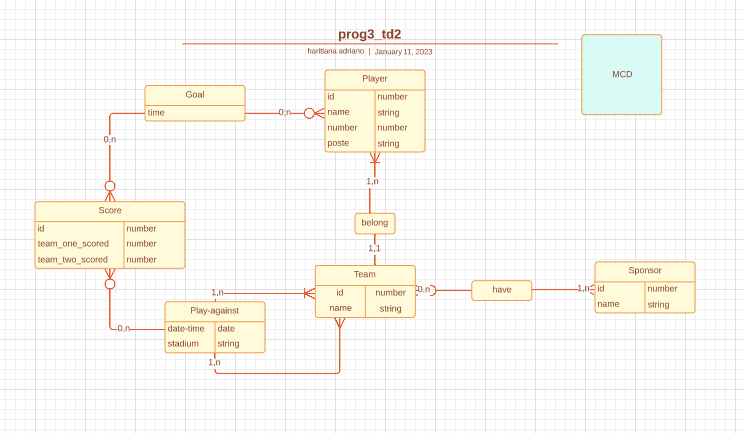
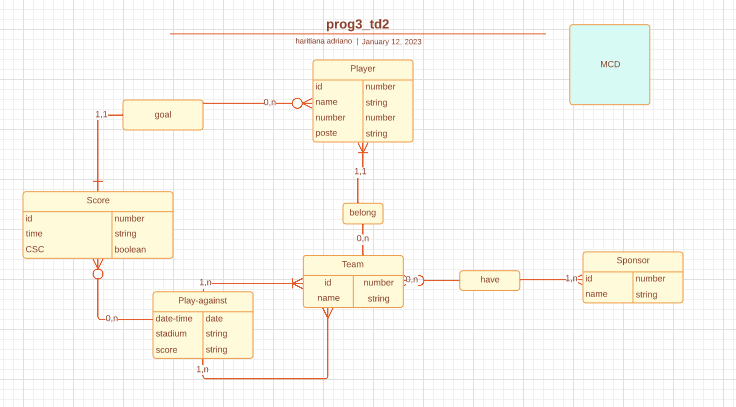
merge: api spec (#3)
* fix: date type on database

* fix: date type on entity hibernate

* chore: goal and score in database

* fix: enum error in database

* edit: image of database on docs folder

* fix: scorer bug on api spec

diff --git a/src/main/java/com/prog3td/demo/model/Match.java b/src/main/java/com/prog3td/demo/model/Match.java
@@ -1,14 +1,19 @@
 package com.prog3td.demo.model;
 
 import com.fasterxml.jackson.annotation.JsonIgnore;
-import jakarta.persistence.*;
+import jakarta.persistence.Entity;
+import jakarta.persistence.GeneratedValue;
+import jakarta.persistence.Id;
+import jakarta.persistence.JoinColumn;
+import jakarta.persistence.ManyToOne;
+import jakarta.persistence.Table;
 import lombok.AllArgsConstructor;
 import lombok.Builder;
 import lombok.Getter;
 import lombok.NoArgsConstructor;
 import lombok.Setter;
 
-import java.time.LocalDateTime;
+import java.time.LocalDate;
 
 import static jakarta.persistence.GenerationType.IDENTITY;
 
@@ -25,7 +30,7 @@ public class Match {
     @Id
     @GeneratedValue(strategy = IDENTITY)
     private Long idPlay;
-    private LocalDateTime dateTime;
+    private LocalDate date;
     @JsonIgnore
     private String stadium;
     @ManyToOne

diff --git a/src/main/java/com/prog3td/demo/controller/mapper/MatchRestMapper.java b/src/main/java/com/prog3td/demo/controller/mapper/MatchRestMapper.java
@@ -14,7 +14,7 @@ public class MatchRestMapper {
         return Match.builder()
                 .teamOne(rest.getTeamOne())
                 .teamTwo(rest.getTeanTwo())
-                .dateTime(rest.getDateTime())
+                .date(rest.getDate())
                 .stadium(rest.getStadium())
                 .build();
     }
@@ -24,7 +24,7 @@ public class MatchRestMapper {
                 .teamOne(rest.getTeamOne())
                 .teamTwo(rest.getTeamTwo())
                 .stadium(rest.getStadium())
-                .dateTime(rest.getDateTime())
+                .date(rest.getDate())
                 .build();
     }
 }

diff --git a/src/main/java/com/prog3td/demo/controller/response/Update/UpdateMatch.java b/src/main/java/com/prog3td/demo/controller/response/Update/UpdateMatch.java
@@ -7,7 +7,7 @@ import lombok.Getter;
 import lombok.NoArgsConstructor;
 import lombok.Setter;
 
-import java.time.LocalDateTime;
+import java.time.LocalDate;
 
 @AllArgsConstructor
 @NoArgsConstructor
@@ -16,7 +16,7 @@ import java.time.LocalDateTime;
 @Builder
 public class UpdateMatch {
     private Long id;
-    private LocalDateTime dateTime;
+    private LocalDate date;
     private String stadium;
     private Team teamOne;
     private Team teamTwo;

diff --git a/src/main/java/com/prog3td/demo/controller/response/Create/CreateMatch.java b/src/main/java/com/prog3td/demo/controller/response/Create/CreateMatch.java
@@ -7,7 +7,7 @@ import lombok.Getter;
 import lombok.NoArgsConstructor;
 import lombok.Setter;
 
-import java.time.LocalDateTime;
+import java.time.LocalDate;
 
 @AllArgsConstructor
 @NoArgsConstructor
@@ -15,7 +15,7 @@ import java.time.LocalDateTime;
 @Setter
 @Builder
 public class CreateMatch {
-    private LocalDateTime dateTime;
+    private LocalDate date;
     private String stadium;
     private Team teamOne;
     private Team teanTwo;
